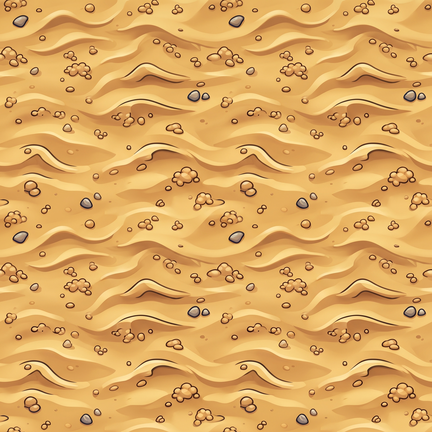
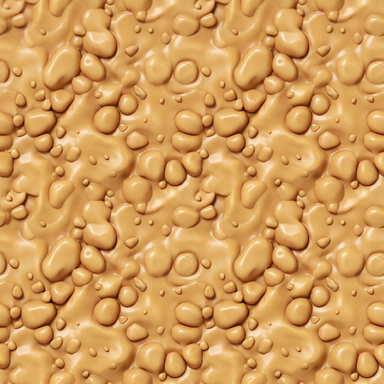
3D zemin: yeni kum dokusu, ışık-gölge, karakter gölgeleri
Claude-Session: https://claude.ai/code/session_01MiwjbYFbK7ZQQVUTNKS99u

diff --git a/www/js/game.js b/www/js/game.js
@@ -42,7 +42,12 @@ function kayitYaz(k, v) { try { localStorage.setItem(k, JSON.stringify(v)); } ca
 
 // RGBA (little-endian) -> Uint32
 const renk32 = (r, g, b, a = 255) => ((a << 24) | (b << 16) | (g << 8) | r) >>> 0;
-const KONTUR = renk32(58, 34, 16);
+// Rengi f ile çarp (ışık/gölge)
+function carp(c, f) {
+  let r = (c & 255) * f, g = ((c >>> 8) & 255) * f, b = ((c >>> 16) & 255) * f;
+  if (r > 255) r = 255; if (g > 255) g = 255; if (b > 255) b = 255;
+  return ((c & 0xff000000) | (b << 16) | (g << 8) | r) >>> 0;
+}
 
 class Oyun extends Phaser.Scene {
   constructor() { super("Oyun"); }
@@ -80,6 +85,7 @@ class Oyun extends Phaser.Scene {
     this.kapakDegisti = true;
     this.hortum = this.add.graphics().setDepth(4);
 
+    this.golgeler = this.add.graphics().setDepth(2.5);
     this.reis.spr = this.add.image(this.reis.x, this.reis.y, "reis_walk0").setOrigin(0.5, 1).setScale(REIS_OLCEK).setDepth(5);
     this.dusmanlar.forEach((d) => {
       d.spr = this.add.image(d.x, d.y, d.tip.ad + "_walk0").setOrigin(0.5, 1).setScale(DUSMAN_OLCEK).setDepth(3);
@@ -132,8 +138,8 @@ class Oyun extends Phaser.Scene {
     };
     const sinir = (v) => (v > 255 ? 255 : v < 0 ? 0 : v) | 0;
     this.src = {
-      [KUM]: yap(kum, (r, g, b) => renk32(r, g, b)),
-      [TOPRAK]: yap(kum, (r, g, b) => renk32(sinir(r * 0.6), sinir(g * 0.43), sinir(b * 0.38))),
+      [KUM]: yap(kum, (r, g, b) => renk32(sinir(r * 1.04), sinir(g * 0.98), sinir(b * 0.86))),
+      [TOPRAK]: yap(kum, (r, g, b) => renk32(sinir(r * 0.58), sinir(g * 0.4), sinir(b * 0.3))),
       [KAYA]: yap(kum, (r, g, b) => { const v = (r * 0.3 + g * 0.59 + b * 0.11) * 0.42; return renk32(sinir(v), sinir(v * 0.98), sinir(v * 1.06)); }),
       [KAPAK]: yap(tahta, (r, g, b) => renk32(sinir(r * 1.25), sinir(g * 1.05), sinir(b * 0.85))),
       magara: yap(kum, (r, g, b) => renk32(sinir(r * 0.24), sinir(g * 0.16), sinir(b * 0.12)))
@@ -266,8 +272,8 @@ class Oyun extends Phaser.Scene {
     if (i >= GX) k[i - GX] = 1;
     if (i < GX * (GY - 1)) k[i + GX] = 1;
     const x = i % GX;
-    if (x > 0) k[i - 1] = 1;
-    if (x < GX - 1) k[i + 1] = 1;
+    if (x > 0) { k[i - 1] = 1; if (i >= GX) k[i - GX - 1] = 1; if (i < GX * (GY - 1)) k[i + GX - 1] = 1; }
+    if (x < GX - 1) { k[i + 1] = 1; if (i >= GX) k[i - GX + 1] = 1; if (i < GX * (GY - 1)) k[i + GX + 1] = 1; }
     this.cizimGerek = true;
   }
   tumunuKirlet() { this.kirli.fill(1); this.cizimGerek = true; }
@@ -369,12 +375,17 @@ class Oyun extends Phaser.Scene {
     }
   }
 
-  // Sadece değişen hücreleri yeniden çizer
+  // Sadece değişen hücreleri yeniden çizer.
+  // 3D görünüm: ışık üstten gelir. Havaya bakan üst kenar parlar, alt kenar gölgelenir,
+  // her kum tanesinin kendi tonu var, mağara köşeleri karanlık (ortam gölgesi).
   kumCiz() {
     if (!this.cizimGerek) return;
     this.cizimGerek = false;
     const g = this.g, si = this.srcI, mg = this.magara, kir = this.kirli, px = this.piksel, src = this.src;
     const magaraSrc = src.magara;
+    const UST = [1.32, 1.2, 1.08], ALTG = [0.88, 0.72, 0.55];
+    const bosMu = (x, y) => x >= 0 && x < GX && y >= 0 && y < GY && g[y * GX + x] === BOS;
+    const doluMu = (x, y) => x < 0 || x >= GX || y >= GY || (y >= 0 && g[y * GX + x] !== BOS);
     for (let i = 0; i < GX * GY; i++) {
       if (!kir[i]) continue;
       kir[i] = 0;
@@ -383,26 +394,32 @@ class Oyun extends Phaser.Scene {
       const tip = g[i];
       if (tip === BOS) {
         if (mg[i]) {
-          for (let yy = 0; yy < C; yy++) { const o = hedef0 + yy * W; for (let xx = 0; xx < C; xx++) px[o + xx] = magaraSrc[o + xx]; }
+          // çevredeki dolu hücre sayısı kadar karart
+          let n = 0;
+          for (let dy = -1; dy <= 1; dy++) for (let dx = -1; dx <= 1; dx++) if ((dx || dy) && doluMu(cx + dx, cy + dy)) n++;
+          const f = 1 - n * 0.075;
+          for (let yy = 0; yy < C; yy++) { const o = hedef0 + yy * W; for (let xx = 0; xx < C; xx++) px[o + xx] = carp(magaraSrc[o + xx], f); }
         } else {
           for (let yy = 0; yy < C; yy++) { const o = hedef0 + yy * W; for (let xx = 0; xx < C; xx++) px[o + xx] = 0; }
         }
         continue;
       }
-      // dokudaki kaynak (kum taneleri kendi dokusunu taşır)
       const s = tip === KUM ? si[i] : i;
       const kaynak0 = ((s / GX) | 0) * C * W + (s % GX) * C;
       const dz = src[tip];
-      // açık kenarlarda koyu kontur
-      const ust = cy > 0 && g[i - GX] === BOS;
-      const alt = cy < GY - 1 && g[i + GX] === BOS;
-      const sol = cx > 0 && g[i - 1] === BOS;
-      const sag = cx < GX - 1 && g[i + 1] === BOS;
+      const ton = tip === KUM ? 0.92 + ((s * 2654435761) >>> 28) / 15 * 0.14 : 1;
+      const ust = bosMu(cx, cy - 1) || cy === 0, alt = bosMu(cx, cy + 1);
+      const sol = bosMu(cx - 1, cy), sag = bosMu(cx + 1, cy);
       for (let yy = 0; yy < C; yy++) {
         const o = hedef0 + yy * W, ko = kaynak0 + yy * W;
-        const yKenar = (ust && yy < 2) || (alt && yy >= C - 2);
+        let fy = ton;
+        if (ust && yy < 3) fy *= UST[yy];
+        if (alt && yy >= C - 3) fy *= ALTG[yy - (C - 3)];
         for (let xx = 0; xx < C; xx++) {
-          px[o + xx] = yKenar || (sol && xx < 2) || (sag && xx >= C - 2) ? KONTUR : dz[ko + xx];
+          let f = fy;
+          if (sol && xx < 2) f *= xx === 0 ? 1.14 : 1.06;
+          if (sag && xx >= C - 2) f *= xx === C - 1 ? 0.7 : 0.84;
+          px[o + xx] = f === 1 ? dz[ko + xx] : carp(dz[ko + xx], f);
         }
       }
     }
@@ -467,6 +484,20 @@ class Oyun extends Phaser.Scene {
     }
     this.kumCiz();
     this.kapakVurgu(zaman);
+    this.golgeCiz();
+  }
+
+  // Ayak altında yumuşak gölge: karakterleri zemine oturtur
+  golgeCiz() {
+    const g = this.golgeler;
+    g.clear();
+    const ciz = (e, gen) => {
+      if (!e.yerde || e.olu) return;
+      g.fillStyle(0x000000, 0.18).fillEllipse(e.x, e.y - 2, gen * 1.15, 16);
+      g.fillStyle(0x000000, 0.22).fillEllipse(e.x, e.y - 2, gen * 0.8, 10);
+    };
+    ciz(this.reis, 70);
+    for (const d of this.dusmanlar) ciz(d, d.w * (1 + d.sisme * 0.12));
   }
 
   // Kapak kenarları: sadece kapak değişince yeniden çizilir, yanıp sönme alpha ile

diff --git a/NOTLAR.md b/NOTLAR.md
@@ -2,18 +2,13 @@
 
 ## Bekleyenler
 
-### 1. Zemini karakterlerin 3D tarzına uydurmak (karar bekliyor)
-- Fizik 2D kalacak, sadece görünüş 3D'leşecek.
-- Kodla: üst kenarlara parlama, alt kenarlara gölge, tane tane ton farkı, tünel köşelerinde ortam gölgesi, karakterlerin altına yumuşak gölge.
-- İsteğe bağlı: kullanıcı 3D render tarzında yeni kum (ve toprak) dokusu ürettirecek.
-
 ## Yapılanlar (önizlemede, GitHub'a henüz gönderilmedi)
 - Yeniden başla butonu (sağ üst, yeşil). Bölümü baştaki skorla yeniden başlatır.
 - Arayüz ikonları: oklar, pompa, yeniden başla, bitiş paneli ve butonlar yeni görsellerle.
 - Pompa hortumu pompanın alt ucundan çıkıyor, yerde kıvrılarak düşmana gidiyor.
 - Kum artık puslu değil: zemin ekran çözünürlüğünde çiziliyor.
 - Kum dokusu verilen görselden. Toprak, kaya ve mağara aynı dokudan renklendirildi. Kapaklar tahta dokulu.
-- Açık kenarlarda koyu çizgi (cartoon kontur).
+- 3D görünüm: yeni 3D kum dokusu, üst kenarlarda parlama, alt kenarlarda gölge, tane tane ton farkı, mağara köşelerinde karanlık, karakterlerin altında gölge. (Eski koyu kontur kaldırıldı.)
 
 ## Vazgeçilenler
 - Basılı tutulan pompa: mevcut pompa hali beğenildi, aynen kalacak.
